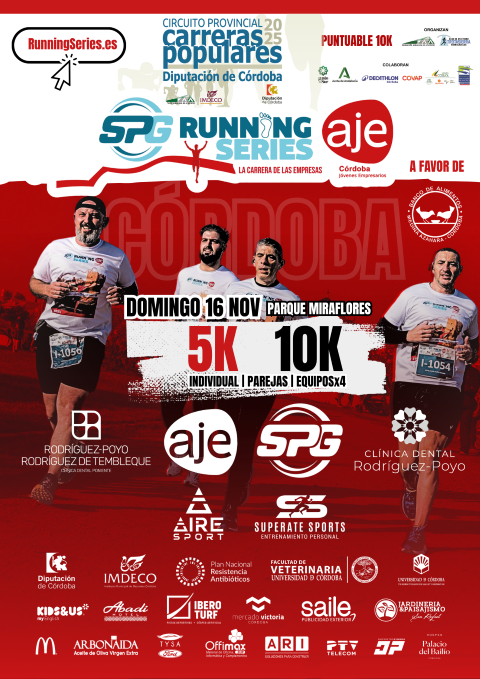
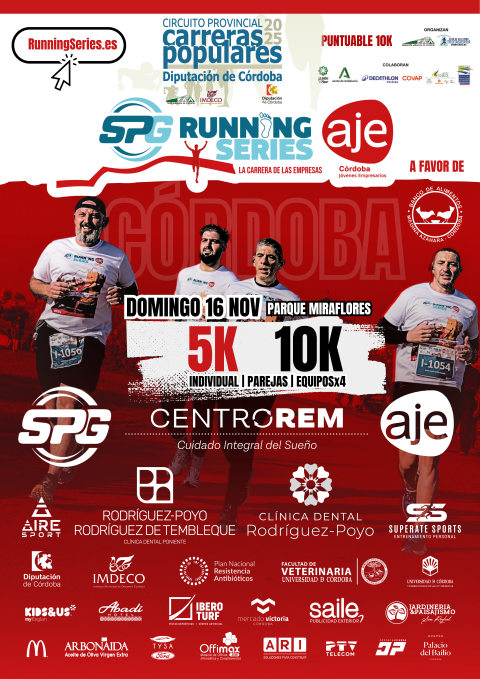
d

Changed region(s): [[0.0312, 0.5567, 1.0, 1.0], [0.75, 0.5567, 0.9688, 0.7113]]

diff --git a/index.html b/index.html
@@ -430,6 +430,12 @@
                     <a href="https://www.spg-pack.com/" target="_blank"><p class="text-primary">spg-pack.com</p></a>
                     <span class="fs-5 text-blue">Empresa líder del sector de fabricación de films (láminas y complejos) flexibles y rígidos para envasado de alimentación de Gran Consumo a nivel europeo.</span>
                 </div>
+                <div class="testimonial-item text-center" data-dot="<img class='img-fluid' src='img/logo-centrorem.png' alt='SPG'>">
+                    <h4 class="text-uppercase">CENTROREM</h4>
+                    <a href="https://www.centrorem.es/" target="_blank"><p class="text-primary">centrorem.es</p></a>
+                    <span class="fs-5 text-blue">Cuidado Integral del Sueño. Especialistas en el tratamiento integral de los trastornos del sueño: apnea, ronquidos, insomnio.
+                    </span>
+                </div>
                 <div class="testimonial-item text-center" data-dot="<img class='img-fluid' src='img/logo-rp1.png' alt='Clinica Dental Poniente'>">
                     <h4 class="text-uppercase">Clínica Dental Rodríguez-Poyo Rodríguez de Tembleque</h4>
                     <a href="https://www.clinicadentalponiente.es/" target="_blank"><p class="text-primary">clinicadentalponiente.es</p></a>
@@ -459,7 +465,7 @@
                         Centro de entrenamiento en Córdoba. Supérate cada día, mejora tu condición física, sin excusas. Diversidad de entrenamientos y disciplinas que mejor se adapten a ti.
                     </span>
                 </div>
-                
+
             </div>
             <div class="owl-carousel testimonial-carousel wow fadeInUp" data-wow-delay="0.1s">
                 <div class="testimonial-item text-center" data-dot="<img class='img-fluid' src='img/logo-kidus.png' alt='kidus'>">
